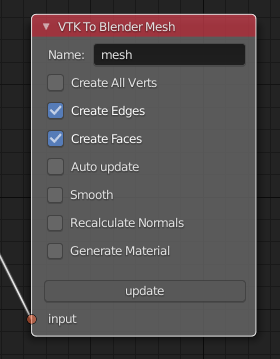
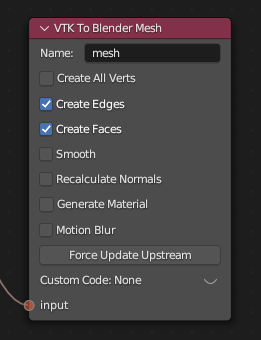
Add Mesh Motion Blur options to VTK To Blender Mesh (#108)
- Thanks to Dominik Werner (dwerner95) for looking up this
  Shape Key animation technique and the initial implementation (#108)!
- Motion Blur option is available in the VTK To Blender Mesh node.
  You need to specify a point vector array name applied for
  motion blur, as well as a time step between frames for
  calculating blur length. Motion blur is calculated for forward
  linear transformation.
- Added optional motion blur to example tree cubeflow_vector_glyphs.
  Enable motion blur for particles mesh to see the effect.
- Bumped version number to 0.11 to mark this new feature.

diff --git a/converters.py b/converters.py
@@ -2,6 +2,7 @@ from .core import l  # Import logging
 from .core import *
 from .cache import BVTKCache
 import bmesh
+from vtk.util import numpy_support
 
 try:
     import pyopenvdb
@@ -215,6 +216,57 @@ class BVTK_Node_VTKToBlenderMesh(Node, BVTK_Node):
     generate_material: bpy.props.BoolProperty(
         name="Generate Material", default=False, update=BVTK_Node.outdate_vtk_status
     )
+    motion_blur: bpy.props.BoolProperty(
+        name="Motion Blur", default=False, update=BVTK_Node.outdate_vtk_status
+    )
+    motion_blur_by: bpy.props.StringProperty(
+        default="", name="Motion Blur By", update=BVTK_Node.outdate_vtk_status
+    )
+    motion_blur_time_step: bpy.props.FloatProperty(
+        default=1.0,name="Time Step for Motion Blur",update=BVTK_Node.outdate_vtk_status
+    )
+
+    def motion_blur_by_enum_generator(self, context=None):
+        """Enum list generator for motion_blur property.
+        Generate array items available for coloring.
+        """
+
+        items = [("None", "Empty (clear value)", "Empty (clear value)", ENUM_ICON, 0)]
+
+        (
+            input_node,
+            vtk_output_obj,
+            vtk_connection,
+        ) = self.get_input_node_and_output_vtk_objects()
+        if vtk_output_obj:
+            if hasattr(vtk_output_obj, "GetPointData"):
+                p_data = vtk_output_obj.GetPointData()
+                p_descr = "Color by point data using "
+                for i in range(p_data.GetNumberOfArrays()):
+                    arr_name = str(p_data.GetArrayName(i))
+                    if p_data.GetArray(i).GetNumberOfComponents() != 3:
+                        continue
+                    items.append(
+                        (
+                            "P_" + arr_name,
+                            arr_name,
+                            p_descr + arr_name + " array",
+                            "VERTEXSEL",
+                            len(items),
+                        )
+                    )
+        return items
+
+    def motion_blur_set_value(self, context=None):
+        """Set value of motion_blur_set_value using value from EnumProperty"""
+        if self.motion_blur_property_list == "None":
+            self.motion_blur_by = ""
+        else:
+            self.motion_blur_by = str(self.motion_blur_property_list)
+
+    motion_blur_property_list: bpy.props.EnumProperty(
+        items=motion_blur_by_enum_generator, update=motion_blur_set_value, name="Choices"
+    )
 
     def m_properties(self):
         return [
@@ -225,6 +277,9 @@ class BVTK_Node_VTKToBlenderMesh(Node, BVTK_Node):
             "smooth",
             "recalc_norms",
             "generate_material",
+            "motion_blur",
+            "motion_blur_by",
+            "motion_blur_time_step",
         ]
 
     def m_connections(self):
@@ -245,6 +300,12 @@ class BVTK_Node_VTKToBlenderMesh(Node, BVTK_Node):
         layout.prop(self, "smooth")
         layout.prop(self, "recalc_norms")
         layout.prop(self, "generate_material")
+        layout.prop(self, "motion_blur")
+        if self.motion_blur:
+            row = layout.row(align=True)
+            row.prop(self, "motion_blur_by")
+            row.prop(self, "motion_blur_property_list", icon_only=True)
+            layout.prop(self,"motion_blur_time_step")
         layout.operator("node.bvtk_node_force_update_upstream").node_path = node_path(
             self
         )
@@ -269,6 +330,9 @@ class BVTK_Node_VTKToBlenderMesh(Node, BVTK_Node):
             recalc_norms=self.recalc_norms,
             generate_material=self.generate_material,
             color_mapper=color_mapper,
+            motion_blur=self.motion_blur,
+            motion_blur_array_name = self.motion_blur_by,
+            motion_blur_time_step = self.motion_blur_time_step,
         )
         if val:
             self.ui_message = val
@@ -561,18 +625,28 @@ def vtkdata_to_blender_mesh(
     smooth=False,
     recalc_norms=False,
     generate_material=False,
+    motion_blur=False,
+    motion_blur_array_name=None,
+    motion_blur_time_step=1.0,
 ):
     """Convert linear and polyhedron VTK cells into a boundary Blender
     surface mesh object.
     """
+
+    from mathutils import Vector
     if not vtk_obj:
         return "No VTK object on input"
     if issubclass(vtk_obj.__class__, vtk.vtkImageData):
         imgdata_to_blender(vtk_obj, name)
         return
     me, ob = mesh_and_object(name)
+
     if me.is_editmode:
         bpy.ops.object.mode_set(mode="OBJECT", toggle=False)
+
+    # Initialize the Basis shape key for mesh motion blur
+    if motion_blur and not ob.data.shape_keys:
+        ob.shape_key_add(name="Basis", from_mix=False)
 
     # Get all VTK vertex coordinates
     data_p = vtk_obj.GetPoints()
@@ -628,7 +702,45 @@ def vtkdata_to_blender_mesh(
     val = unwrap_and_color_the_mesh(
         ob, vtk_obj, name, color_mapper, bm, generate_material, vimap
     )
+
+    # Mesh motion blur
+    if motion_blur:
+        nFrame = bpy.context.scene.frame_current
+        l.debug("Set up motion blur for frame %d" % nFrame)
+        if ((not bm.verts.layers.shape.keys()) or \
+            (not "key_blur" in bm.verts.layers.shape.keys())):
+               key_shape = bm.verts.layers.shape.new("key_blur")
+        else:
+            key_shape = bm.verts.layers.shape["key_blur"]
+
+        if len(motion_blur_array_name) < 3:
+            return "Motion blur array name is wrong (minimum 3 letters)"
+        array_data = get_vtk_array_data(vtk_obj, motion_blur_array_name[2:], array_type=motion_blur_array_name[0])
+        if not array_data:
+            return "Did not find point array %r" % motion_blur_array_name[2:]
+        array_data = numpy_support.vtk_to_numpy(array_data)
+
+        # Calculate shape key coordinates
+        for i, bv in enumerate(bm.verts):
+            bv[key_shape] = bv.co + 2.0 * motion_blur_time_step * Vector(array_data[i])
+
     bm.to_mesh(me)
+
+    # Add keyframes to shape key Value parameter to animate motion blur
+    if motion_blur:
+        ob.data.shape_keys.animation_data_clear()
+        kb = ob.data.shape_keys.key_blocks["key_blur"]
+        kb.value = 1.0
+        kb.keyframe_insert("value",frame=nFrame+1)
+        kb.value = 0.0
+        kb.keyframe_insert("value",frame=nFrame-1)
+        bpy.context.scene.cycles.use_motion_blur = True
+        bpy.context.scene.eevee.use_motion_blur = True
+        # Must use "Start on Frame" Position for motion blur to avoid frame changes
+        bpy.context.scene.cycles.motion_blur_position = "START"
+        bpy.context.scene.eevee.motion_blur_position = "START"
+        bpy.context.scene.view_layers.update()
+
     if val:
         start_info = "Coloring failed,"
     else:

diff --git a/__init__.py b/__init__.py
@@ -7,7 +7,7 @@
 bl_info = {
     "name": "BVTKNodes, Blender VTK Nodes",
     "author": "BVTKNodes Developers",
-    "version": (0, 10),
+    "version": (0, 11),
     "blender": (3, 3, 0),
     "location": "BVTK Node Tree Editor > New",
     "description": "Create and execute VTK pipelines in Blender Node Editor",

diff --git a/docs/conf.py b/docs/conf.py
@@ -29,7 +29,7 @@ author = u'BVTKNodes Developers'
 # The short X.Y version
 version = u''
 # The full version, including alpha/beta/rc tags
-release = u'0.10'
+release = u'0.11'
 
 
 # -- General configuration ---------------------------------------------------

diff --git a/docs/BVTKNodes.rst b/docs/BVTKNodes.rst
@@ -497,6 +497,21 @@ following additions:
   upstream nodes and this node. This was added for special cases where
   the update system does not detect a possible need for running an
   update.
+- **Motion Blur**: Boolean option to enable mesh motion blur. If
+  enabled, the following options become available:
+- **Motion Blur By** specifies name of a point vector field (3 value
+  components) which is to be used for creating pointwise motion
+  for the mesh. The naming convention is the same used in *Color
+  Mapper* Node. E.g. value "P_velocity" means that the point vector
+  field name to be applied is "velocity".
+- **Time Step for Motion Blur** specifies the time difference between
+  two frames. It is used for calculating the length scale of motion blur.
+
+Blender's Motion Blur settings are located in the Render Properties
+Panel. The *Position* is set to *Start on Frame* to get correct
+blur for rendering an animation. A still example of motion blur is
+available in the example node tree *cubeflow_vector_glyphs*. You need
+to enable *Motion Blur* in the *Blender To VTK Mesh* Node.
 
 .. image:: images/vtk_to_blender_mesh_node.png
 

diff --git a/docs/whats_new.rst b/docs/whats_new.rst
@@ -6,6 +6,13 @@ What's New
 This information applies to the
 `tkeskita/bvtknodes <https://github.com/tkeskita/BVtkNodes>`_ version.
 
+Version 0.11
+------------
+
+- 2023-12-31: Motion Blur is available in VTK To Blender Mesh
+  Node. Mesh motion blur is implemented using Blender Shape
+  Keys, based on mesh point transformation by a vector point field.
+
 Version 0.10
 ------------
 
